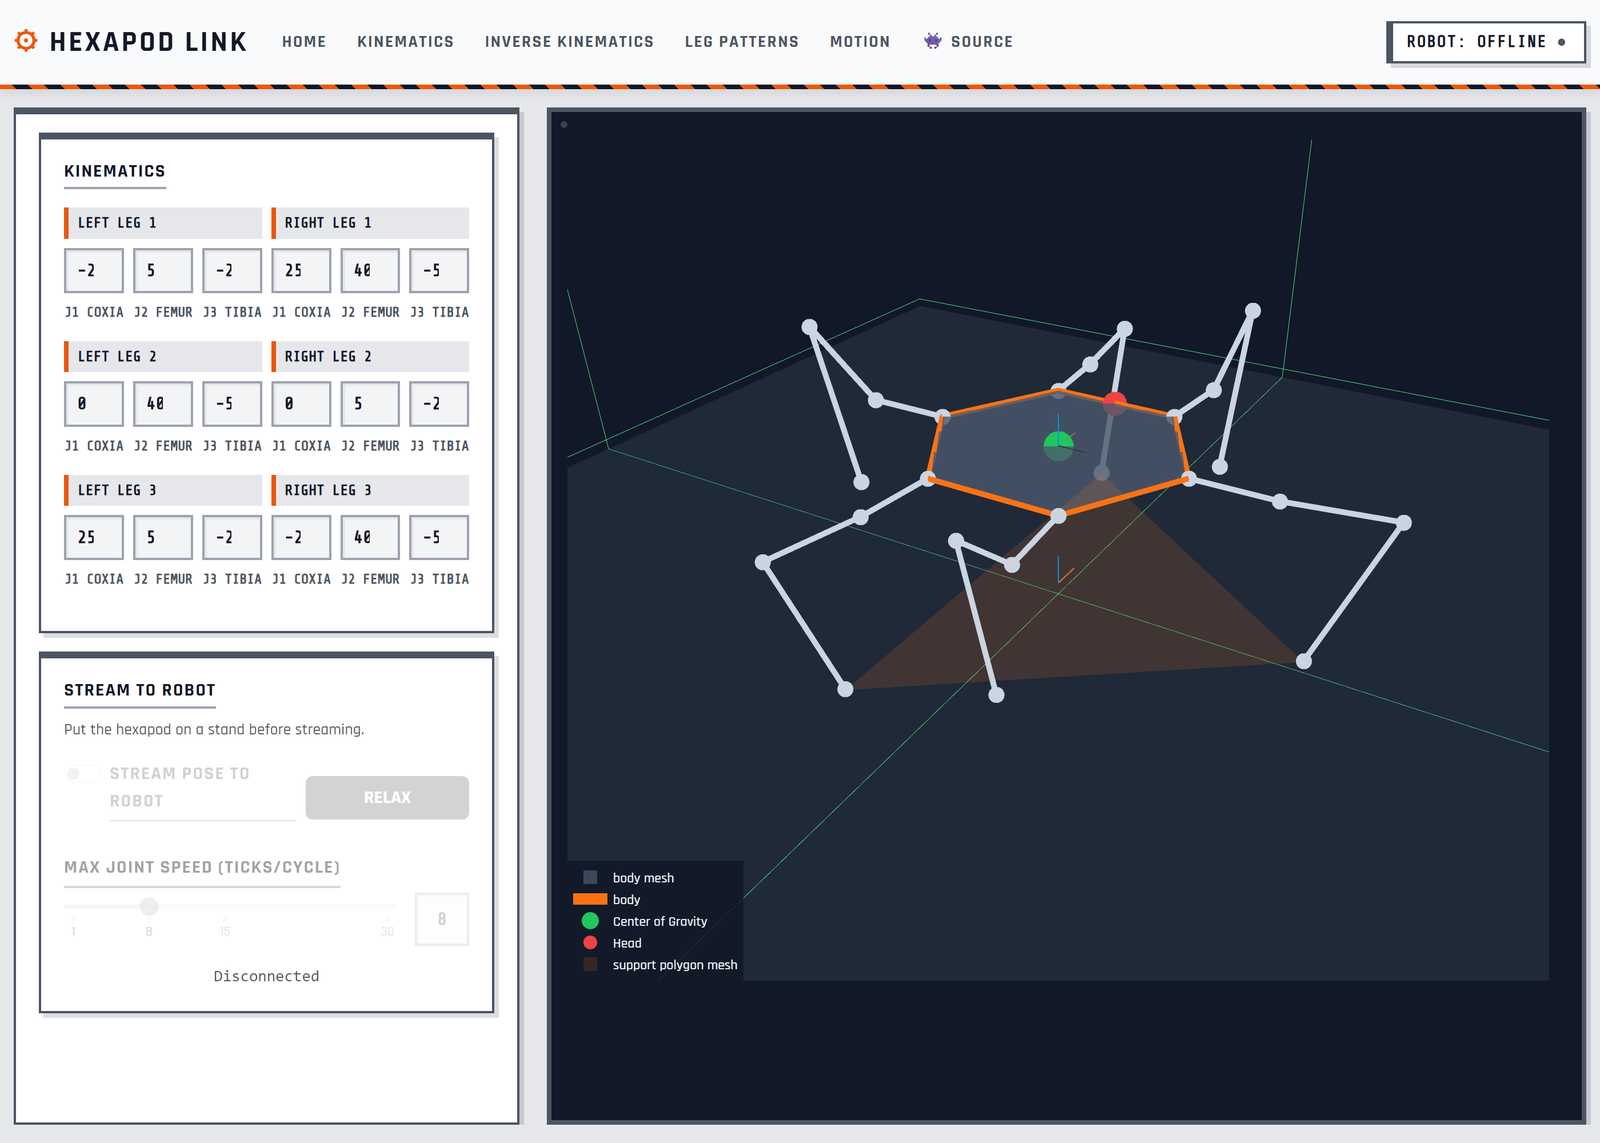
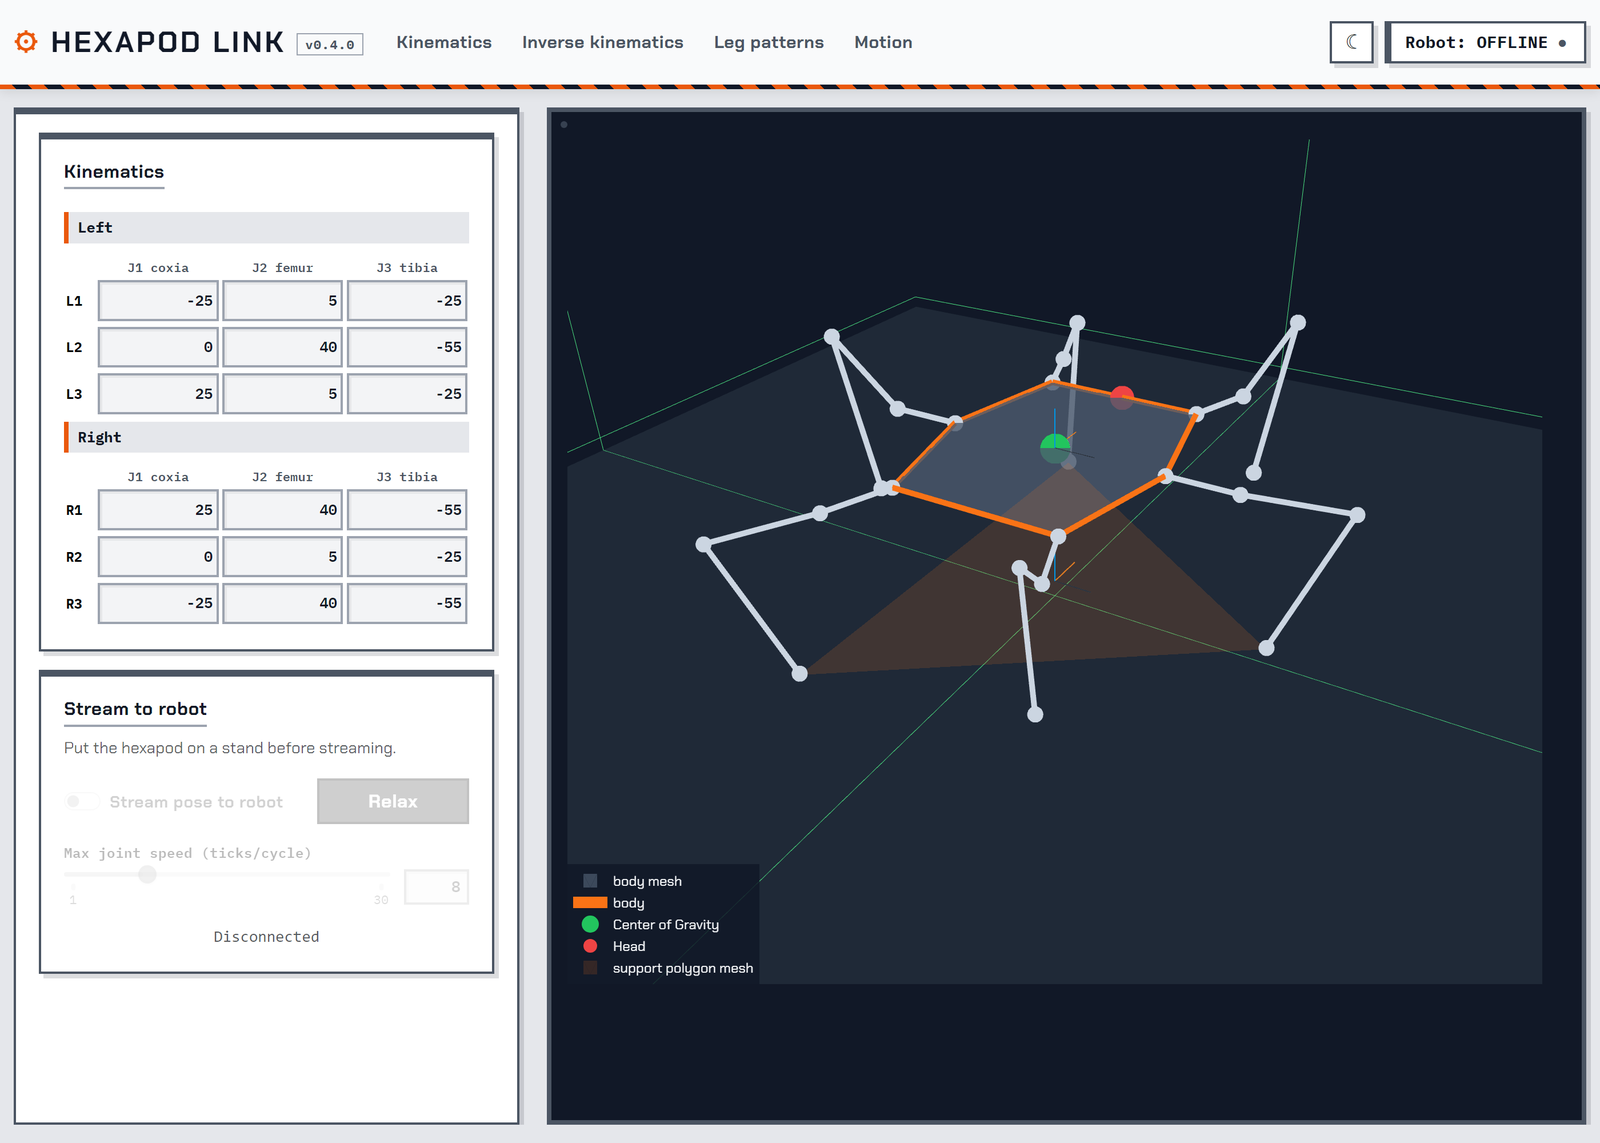
Update README and screenshots for the light and dark themes
The screenshot tool now captures every page in both themes, writing
<page>.png and <page>-dark.png, and the README picks between them with
<picture> so readers see the theme that matches their GitHub colour mode.
All images, including the walk GIF, are regenerated from the current UI.

The GIF step had been broken since generate_poses() started taking a robot
config instead of a profile name; it now generates the gait for the robot
the app is modelling, so the gait fits the body drawn in the plot.

README: documents the theme toggle and where the choice is saved, points
UI colour changes at industrial.css, and refreshes stale facts (supported
robots, test-suite size and coverage).

diff --git a/tools/make_screenshots.py b/tools/make_screenshots.py
@@ -3,7 +3,8 @@
     python tools/make_screenshots.py
 
 Serves the app on a loopback port, drives headless Chrome over it once per
-page, and writes the results to docs/images/. The screenshots are therefore
+page and theme, and writes the results to docs/images/: <page>.png in the
+light theme and <page>-dark.png in the dark one. The screenshots are therefore
 always of the current UI -- rerun this after a theme or layout change rather
 than editing the PNGs by hand.
 
@@ -42,6 +43,11 @@ PAGES = [
     ("leg-patterns", "/leg-patterns", 1400, 1000),
     ("motion", "/motion-animations", 1400, 1150),
 ]
+
+# Every page is captured once per theme, with this suffix on the file name.
+# The README picks between the two with a <picture> element, so readers see
+# the one matching their GitHub colour mode.
+THEMES = [("light", ""), ("dark", "-dark")]
 
 # Widget values applied before serving, so each page is captured showing off
 # what it does instead of the neutral start-up pose. Keyed by widget id, which
@@ -84,9 +90,10 @@ POSED_WIDGETS = {
 }
 
 # The animated hero on the README: one gait cycle, played on the kinematics
-# page because that page takes its pose straight from the widget values.
+# page because that page takes its pose straight from the widget values. The
+# gait is generated for the robot the app is modelling, so it fits the body
+# drawn in the plot.
 GIF_MOTION = "walk_0"
-GIF_PROFILE = "mochi"
 GIF_FRAME_STEP = 2
 GIF_WIDTH = 640
 GIF_FRAME_MS = 90
@@ -216,8 +223,9 @@ def capture(browser, profile_dir, url, out_path, width, height):
 def capture_gif(browser, profile_dir, layouts, url, out_path):
     """Walk the hexapod through one gait cycle, one browser shot per frame."""
     from hexapod.path_generator import generate_poses
+    from hexapod.robot_link import ROBOT_LINK
 
-    poses = generate_poses(GIF_MOTION, GIF_PROFILE)[::GIF_FRAME_STEP]
+    poses = generate_poses(GIF_MOTION, ROBOT_LINK.robot_config)[::GIF_FRAME_STEP]
     frames = []
     box = None
     with tempfile.TemporaryDirectory() as frame_dir:
@@ -259,6 +267,15 @@ def capture_gif(browser, profile_dir, layouts, url, out_path):
 
 
 def main():
+    # The app serves whatever theme is saved in the preferences file, so point
+    # that at a throwaway file and switch it per capture. The real one, from
+    # sessions on this machine, is neither read nor overwritten.
+    prefs_dir = tempfile.mkdtemp(prefix="hexapod-link-shots-")
+    from settings import PREFERENCES_ENV
+
+    os.environ[PREFERENCES_ENV] = os.path.join(prefs_dir, "preferences.json")
+    from hexapod.preferences import save_theme
+
     import hexapod_link  # noqa: E402  (imported late; it builds the whole app)
 
     seen = set()
@@ -278,21 +295,28 @@ def main():
     print(f"browser: {browser}")
     try:
         with tempfile.TemporaryDirectory() as profile_dir:
-            for name, path, width, height in ([] if gif_only else PAGES):
-                out_path = os.path.join(OUT_DIR, f"{name}.png")
-                size = capture(
-                    browser,
-                    profile_dir,
-                    f"http://127.0.0.1:{PORT}{path}",
-                    out_path,
-                    width,
-                    height,
-                )
-                kb = os.path.getsize(out_path) // 1024
-                print(f"  docs/images/{name}.png  {size[0]}x{size[1]}  {kb} KB")
+            for theme, suffix in ([] if gif_only else THEMES):
+                save_theme(theme)
+                for name, path, width, height in PAGES:
+                    file_name = f"{name}{suffix}.png"
+                    out_path = os.path.join(OUT_DIR, file_name)
+                    size = capture(
+                        browser,
+                        profile_dir,
+                        f"http://127.0.0.1:{PORT}{path}",
+                        out_path,
+                        width,
+                        height,
+                    )
+                    kb = os.path.getsize(out_path) // 1024
+                    print(f"  docs/images/{file_name}  {size[0]}x{size[1]}  {kb} KB")
 
             if "--no-gif" in sys.argv:
                 return
+            # The GIF is cropped to the 3D plot, which looks the same in both
+            # themes; find_plot_box() needs the light page around it to find
+            # the plot's edges.
+            save_theme("light")
             print(f"  rendering {GIF_MOTION} ...")
             out_path = os.path.join(OUT_DIR, "walk.gif")
             size = capture_gif(
@@ -306,6 +330,7 @@ def main():
             print(f"  docs/images/walk.gif  {size[0]}x{size[1]}  {kb} KB")
     finally:
         server.shutdown()
+        shutil.rmtree(prefs_dir, ignore_errors=True)
 
 
 if __name__ == "__main__":

diff --git a/README.md b/README.md
@@ -26,25 +26,42 @@ streaming control, and a rebuilt CI/test suite.
 | 🎉 | Inverse Kinematics | What are the angles of each joint to make the robot look the way I want? Is it even possible? Why or why not? |
 | 🎉 | Leg Patterns & Motion | Preview predefined gaits and leg-pattern animations frame by frame. |
 | 🎉 | Customizability | Set the dimensions and shape of the robot's body and legs. |
-| 🎉 | Real-time Robot Control | Drive a physical ESP32 hexapod over WiFi, from single joints to whole-body gaits. Supports both the `mochi` and `macaroon` robots. |
+| 🎉 | Real-time Robot Control | Drive a physical ESP32 hexapod over WiFi, from single joints to whole-body gaits. Works with any robot in the family (Nougat, Mochi, Macaroon, ...): each one serves its own config. |
 | 🎉 | Desktop App | Runs as a native window (Windows/Linux) via PyInstaller + pywebview, no browser required. |
+| 🎉 | Light & Dark Themes | Switch from the navigation bar; the choice is remembered between launches. |
 | 🎉 | Simplicity | Minimal dependencies. Numpy for calculations, Plotly Dash for the 3D view and UI. |
 
 ## Preview
 
-![The landing page](docs/images/home.png)
+The screenshots follow your GitHub colour mode: light here shows the light
+theme, dark shows the dark one.
 
-| | |
-|---|---|
-| ![The kinematics page](docs/images/kinematics.png) | ![The inverse kinematics page](docs/images/inverse-kinematics.png) |
-| **Kinematics** — set all 18 joint angles by hand and watch the body follow. | **Inverse Kinematics** — translate and rotate the body; the solver finds the joints. |
-| ![The leg patterns page](docs/images/leg-patterns.png) | ![The motion page](docs/images/motion.png) |
-| **Leg Patterns** — sweep all six legs together through one set of angles. | **Motion** — play the generated gaits frame by frame and scrub them. |
+<picture><source media="(prefers-color-scheme: dark)" srcset="docs/images/home-dark.png"><img src="docs/images/home.png" alt="The landing page"></picture>
+
+<table>
+  <tr>
+    <td width="50%"><picture><source media="(prefers-color-scheme: dark)" srcset="docs/images/kinematics-dark.png"><img src="docs/images/kinematics.png" alt="The kinematics page"></picture></td>
+    <td width="50%"><picture><source media="(prefers-color-scheme: dark)" srcset="docs/images/inverse-kinematics-dark.png"><img src="docs/images/inverse-kinematics.png" alt="The inverse kinematics page"></picture></td>
+  </tr>
+  <tr>
+    <td><b>Kinematics</b> — set all 18 joint angles by hand and watch the body follow.</td>
+    <td><b>Inverse Kinematics</b> — translate and rotate the body; the solver finds the joints.</td>
+  </tr>
+  <tr>
+    <td><picture><source media="(prefers-color-scheme: dark)" srcset="docs/images/leg-patterns-dark.png"><img src="docs/images/leg-patterns.png" alt="The leg patterns page"></picture></td>
+    <td><picture><source media="(prefers-color-scheme: dark)" srcset="docs/images/motion-dark.png"><img src="docs/images/motion.png" alt="The motion page"></picture></td>
+  </tr>
+  <tr>
+    <td><b>Leg Patterns</b> — sweep all six legs together through one set of angles.</td>
+    <td><b>Motion</b> — play the generated gaits frame by frame and scrub them.</td>
+  </tr>
+</table>
 
 Everything above is generated from the running app by
-[`tools/make_screenshots.py`](./tools/make_screenshots.py), and the app icon by
-[`tools/make_icon.py`](./tools/make_icon.py). Rerun those after a UI or theme
-change rather than editing the images by hand.
+[`tools/make_screenshots.py`](./tools/make_screenshots.py), which captures every
+page in both themes (`<page>.png` and `<page>-dark.png` in `docs/images/`), and
+the app icon by [`tools/make_icon.py`](./tools/make_icon.py). Rerun those after
+a UI or theme change rather than editing the images by hand.
 
 ## Requirements
 
@@ -64,7 +81,16 @@ serving on http://127.0.0.1:8050 (ctrl-c to stop)
 Then open the printed URL in a browser.
 
 - Modify default settings with [`settings.py`](./settings.py) — joint limits, robot link ports/rates, UI resolution, etc.
-- Modify page styles/theme with [`style_settings.py`](./style_settings.py).
+- Modify the UI colours in [`assets/industrial.css`](./assets/industrial.css): the light theme's tokens are on `:root`, and the dark theme overrides them under `:root[data-theme="dark"]`.
+- Modify the 3D plot's colours and sizes with [`style_settings.py`](./style_settings.py). The plot is a dark CAD-style view in both themes.
+
+### Light and dark themes
+
+The ☾ / ☀ button in the navigation bar, next to the robot status button,
+switches between the light and dark themes. The choice is saved to
+`~/.hexapod-link/preferences.json` (set `HEXAPOD_LINK_PREFERENCES` to move it)
+and applied before the first paint on the next launch, so the app opens in
+whichever theme you left it in. Light is the default.
 
 ## Desktop app
 
@@ -211,11 +237,11 @@ $ pip install -r requirements-dev.txt
 $ pytest
 ```
 
-The suite (~1200 lines across [`tests/`](./tests)) covers forward/inverse
+The suite (~1700 lines across [`tests/`](./tests)) covers forward/inverse
 kinematics, leg patterns, path/motion generation, leg-naming conversions, the
-robot-link streaming protocol, and reading each robot's config (against
-`tools/fake_robot.py`) — all without needing a display, a browser, or a physical
-robot.
+robot-link streaming protocol, reading each robot's config (against
+`tools/fake_robot.py`), and the saved UI preferences — all without needing a
+display, a browser, or a physical robot.
 
 ## CI/CD
 
